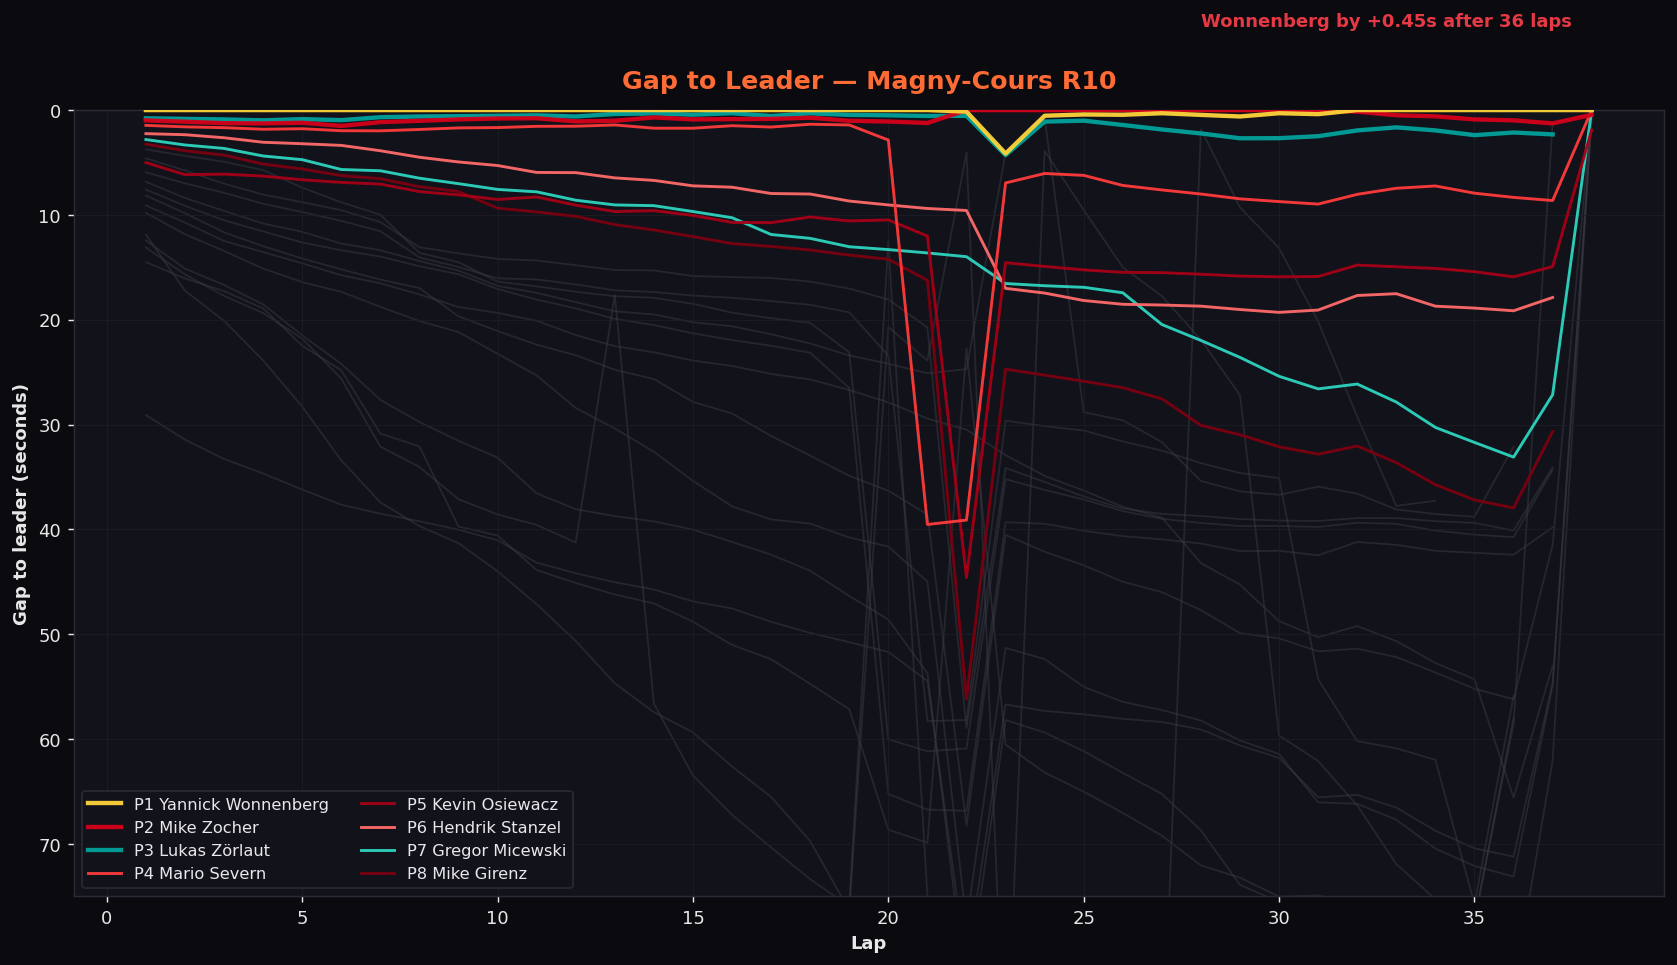
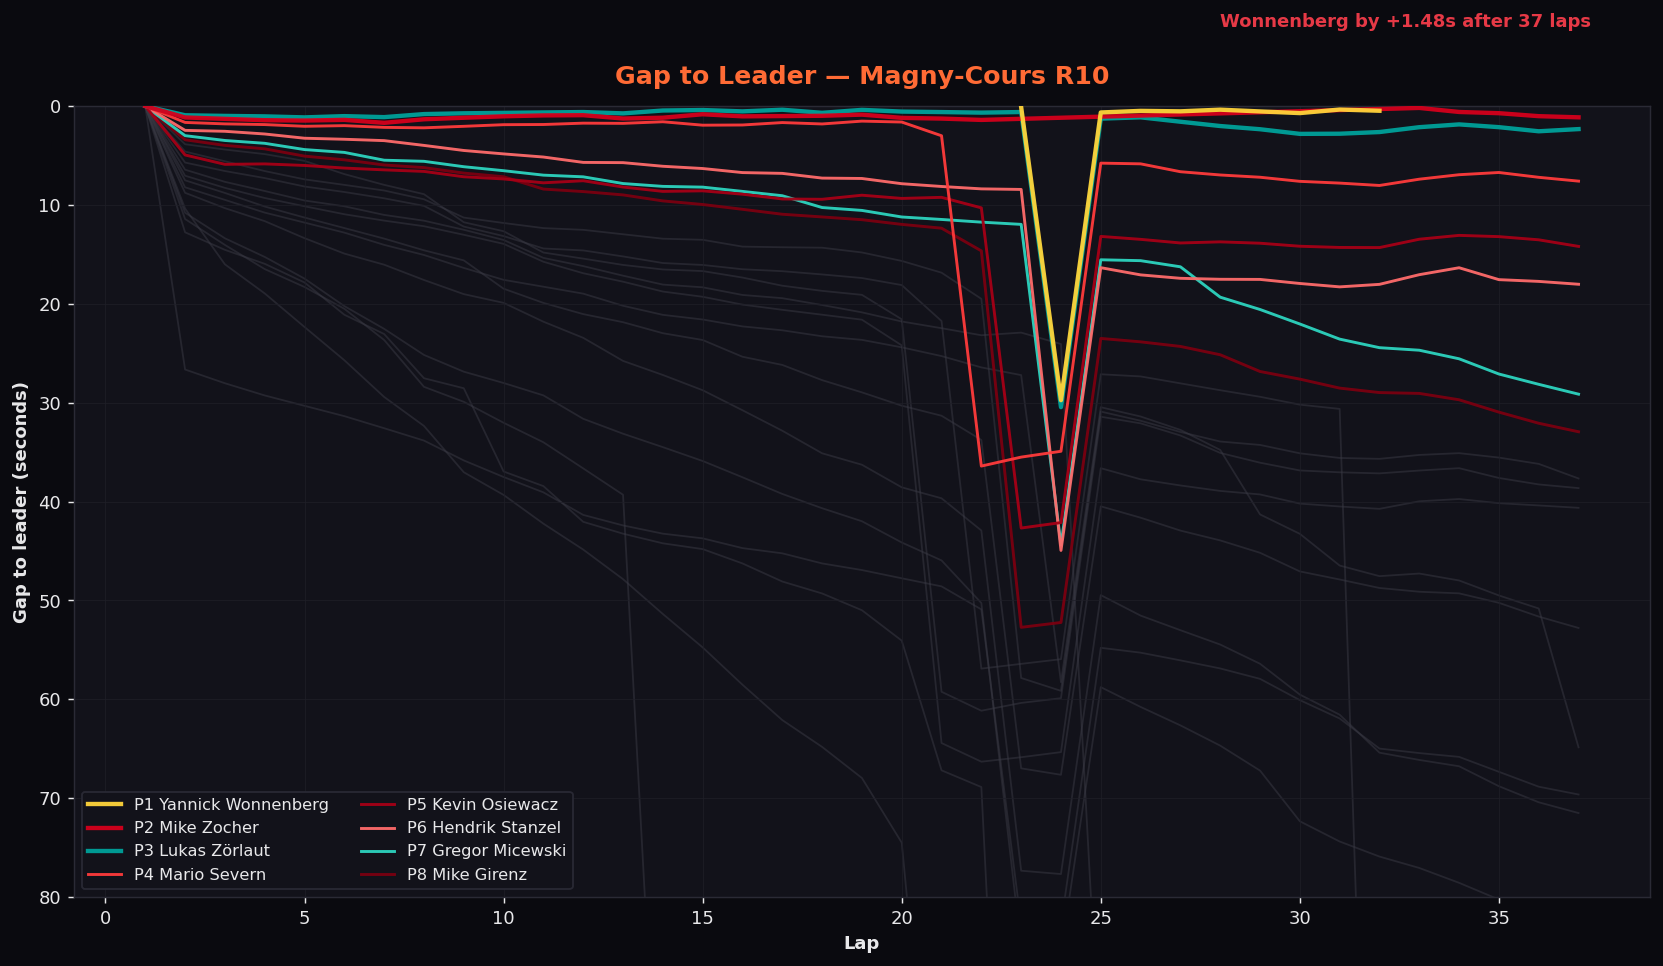
Update SimRacing Hub

diff --git a/de/race-center.html b/de/race-center.html
@@ -264,7 +264,7 @@
           <a href="../races/magnycours-r10-chart-pace.png" target="_blank" style="display:block;">
             <img src="../races/magnycours-r10-chart-pace.png" alt="Race-pace-Konsistenz-Violinplot" style="width:100%; border-radius:6px; display:block;">
           </a>
-          <p style="margin:0.6rem 0.3rem 0.3rem; font-size:0.85rem; color:rgba(255,255,255,0.65);">Verteilung der sauberen Rundenzeiten pro Fahrer. Lukas Z&ouml;rlaut hatte das engste Pace-Fenster (Stdabw 0,27&nbsp;s &uuml;ber 31 saubere Runden).</p>
+          <p style="margin:0.6rem 0.3rem 0.3rem; font-size:0.85rem; color:rgba(255,255,255,0.65);">Verteilung der sauberen Rundenzeiten pro Fahrer, Pit-affected- und Slow-Laps via iRaceControls slow_lap-Markern ausgeschlossen. <strong>Yannick Wonnenberg hatte das engste Pace-Fenster</strong> (Stdabw 0,53&nbsp;s &uuml;ber 34 saubere Runden) &mdash; Pole, schnellste Runde, Sieg <em>und</em> konsistenteste Pace.</p>
         </div>
         <div class="card" style="background:#0d0d14; padding:0.6rem;">
           <span class="card-tag cas" style="margin: 0.3rem 0 0.5rem 0.3rem;">Boxenstopps</span>

diff --git a/race-center.html b/race-center.html
@@ -264,7 +264,7 @@
           <a href="races/magnycours-r10-chart-pace.png" target="_blank" style="display:block;">
             <img src="races/magnycours-r10-chart-pace.png" alt="Race-pace consistency violin plot" style="width:100%; border-radius:6px; display:block;">
           </a>
-          <p style="margin:0.6rem 0.3rem 0.3rem; font-size:0.85rem; color:rgba(255,255,255,0.65);">Clean-lap distribution per driver. Lukas Z&ouml;rlaut had the tightest pace window (stdev 0.27&nbsp;s over 31 clean laps).</p>
+          <p style="margin:0.6rem 0.3rem 0.3rem; font-size:0.85rem; color:rgba(255,255,255,0.65);">Clean-lap distribution per driver, pit-affected and slow laps excluded via iRaceControl's slow_lap markers. <strong>Yannick Wonnenberg had the tightest pace window</strong> (stdev 0.53&nbsp;s over 34 clean laps) &mdash; pole, fastest lap, win <em>and</em> most consistent.</p>
         </div>
         <div class="card" style="background:#0d0d14; padding:0.6rem;">
           <span class="card-tag cas" style="margin: 0.3rem 0 0.5rem 0.3rem;">Pit Stops</span>
